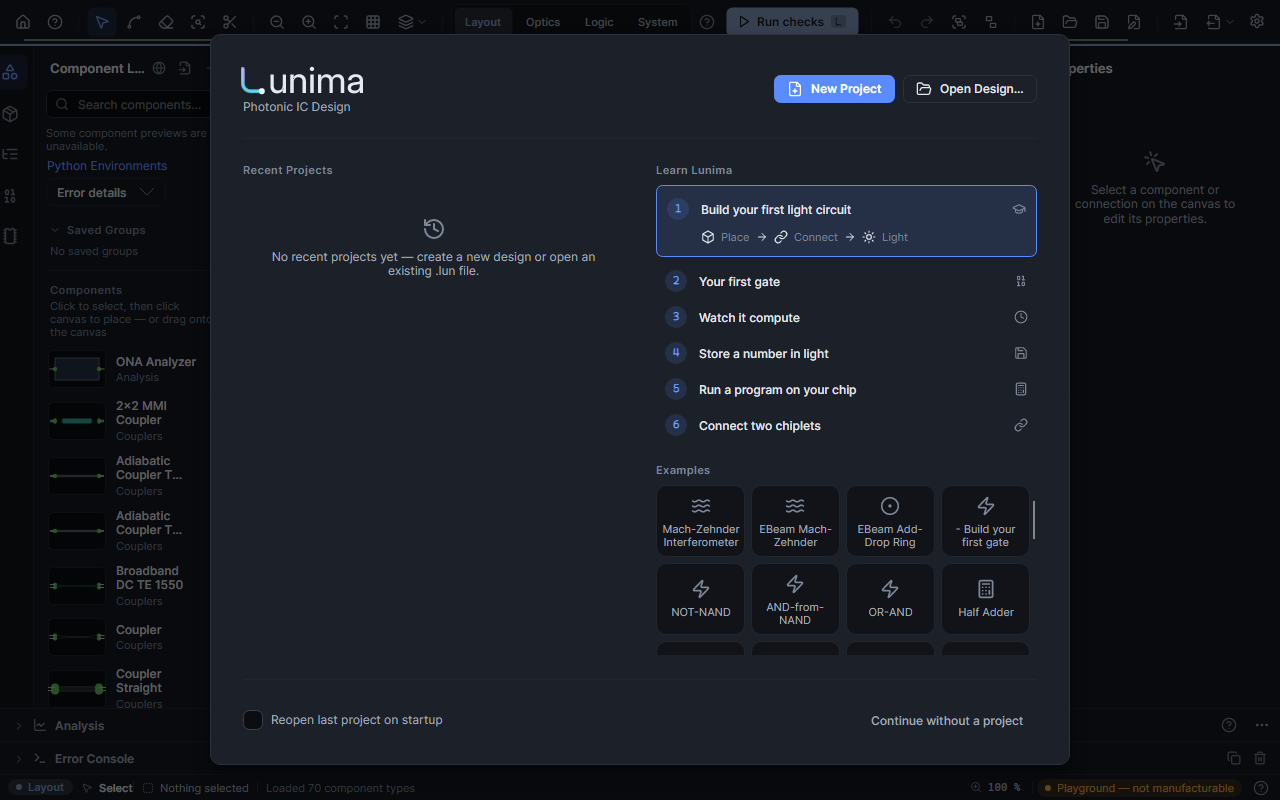
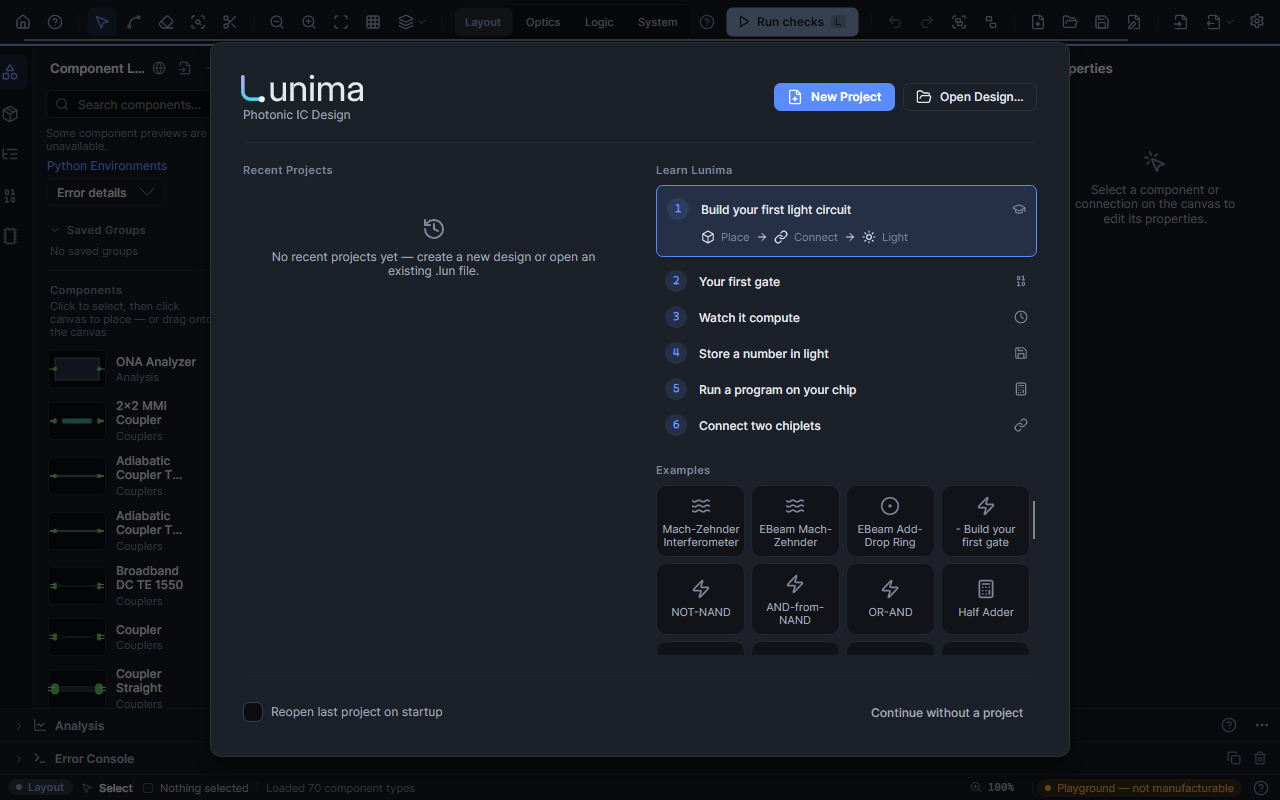
fix(home): keep optical entry within laptop height

diff --git a/UnitTests/UI/HomeCompactLayoutScreenshotTests.cs b/UnitTests/UI/HomeCompactLayoutScreenshotTests.cs
@@ -46,21 +46,24 @@ public sealed class HomeCompactLayoutScreenshotTests : IDisposable
         }
         var home = new HomeViewModel(recents, preferences, new ExampleDesignsService());
         var window = new Window { Width = 1280, Height = LaptopWindowHeight, Content = new HomeView { DataContext = home } };
-        window.Show();
-        Dispatcher.UIThread.RunJobs();
-
-        var card = window.GetVisualDescendants().OfType<Border>().First(b => b.Name == "HomeCard");
-        card.Bounds.Height.ShouldBeLessThan(LaptopWindowHeight - 40, "the whole card is visible without scrolling the window");
-
-        var shotRoot = Environment.GetEnvironmentVariable("UI_SHOT_DIR");
-        if (!string.IsNullOrEmpty(shotRoot))
+        try
         {
-            ScreenshotArtifacts.SettleAnimations();
-            var dir = Path.Combine(shotRoot, "home-compact");
-            Directory.CreateDirectory(dir);
-            using var frame = window.CaptureRenderedFrame();
-            ScreenshotArtifacts.SavePng(frame!, Path.Combine(dir, $"home-{language}.png"));
+            window.Show();
+            Dispatcher.UIThread.RunJobs();
+
+            var card = window.GetVisualDescendants().OfType<Border>().First(b => b.Name == "HomeCard");
+            card.Bounds.Height.ShouldBeLessThan(LaptopWindowHeight - 40, "the whole card is visible without scrolling the window");
+
+            var shotRoot = Environment.GetEnvironmentVariable("UI_SHOT_DIR");
+            if (!string.IsNullOrEmpty(shotRoot))
+            {
+                ScreenshotArtifacts.SettleAnimations();
+                var dir = Path.Combine(shotRoot, "home-compact");
+                Directory.CreateDirectory(dir);
+                using var frame = window.CaptureRenderedFrame();
+                ScreenshotArtifacts.SavePng(frame!, Path.Combine(dir, $"home-{language}.png"));
+            }
         }
-        window.Close();
+        finally { window.Close(); }
     }
 }

diff --git a/docs/RELEASE-CHECKLIST.md b/docs/RELEASE-CHECKLIST.md
@@ -327,4 +327,4 @@ Every PR that adds, removes, or materially changes a user-facing feature must up
 - [ ] Follow the real Counter buttons without changing input toggles. Clock events and register values change, Run starts, Stop preserves the committed state, and Done closes the summary.
 - [ ] Hide the analysis dock or leave Logic during the guide. Show Logic controls restores the workspace/tab without rebuilding or modifying the circuit; hiding a running dock must not count as pressing Stop.
 - [ ] Invalidate the built logic network during the guide. Guidance returns to Build instead of pointing at disabled clock controls.
-- [ ] Home visibly offers the first optical circuit with a Place → Connect → Light sequence in all five languages. The real entry starts guidance without replacing existing work; New/Open remain available and the complete German/Spanish cue fits at 1000 px. `(auto: HomeOpticalEntryTests, HomeLearnTourListTests, FirstUseGuidanceTests)`
+- [ ] Home visibly offers the first optical circuit with a Place → Connect → Light sequence in all five languages. The real entry starts guidance without replacing existing work; New/Open remain available and the complete German/Spanish cue fits at 1000 px. The complete Home card also fits a 760 px laptop window. `(auto: HomeOpticalEntryTests, HomeCompactLayoutScreenshotTests, HomeLearnTourListTests, FirstUseGuidanceTests)`
